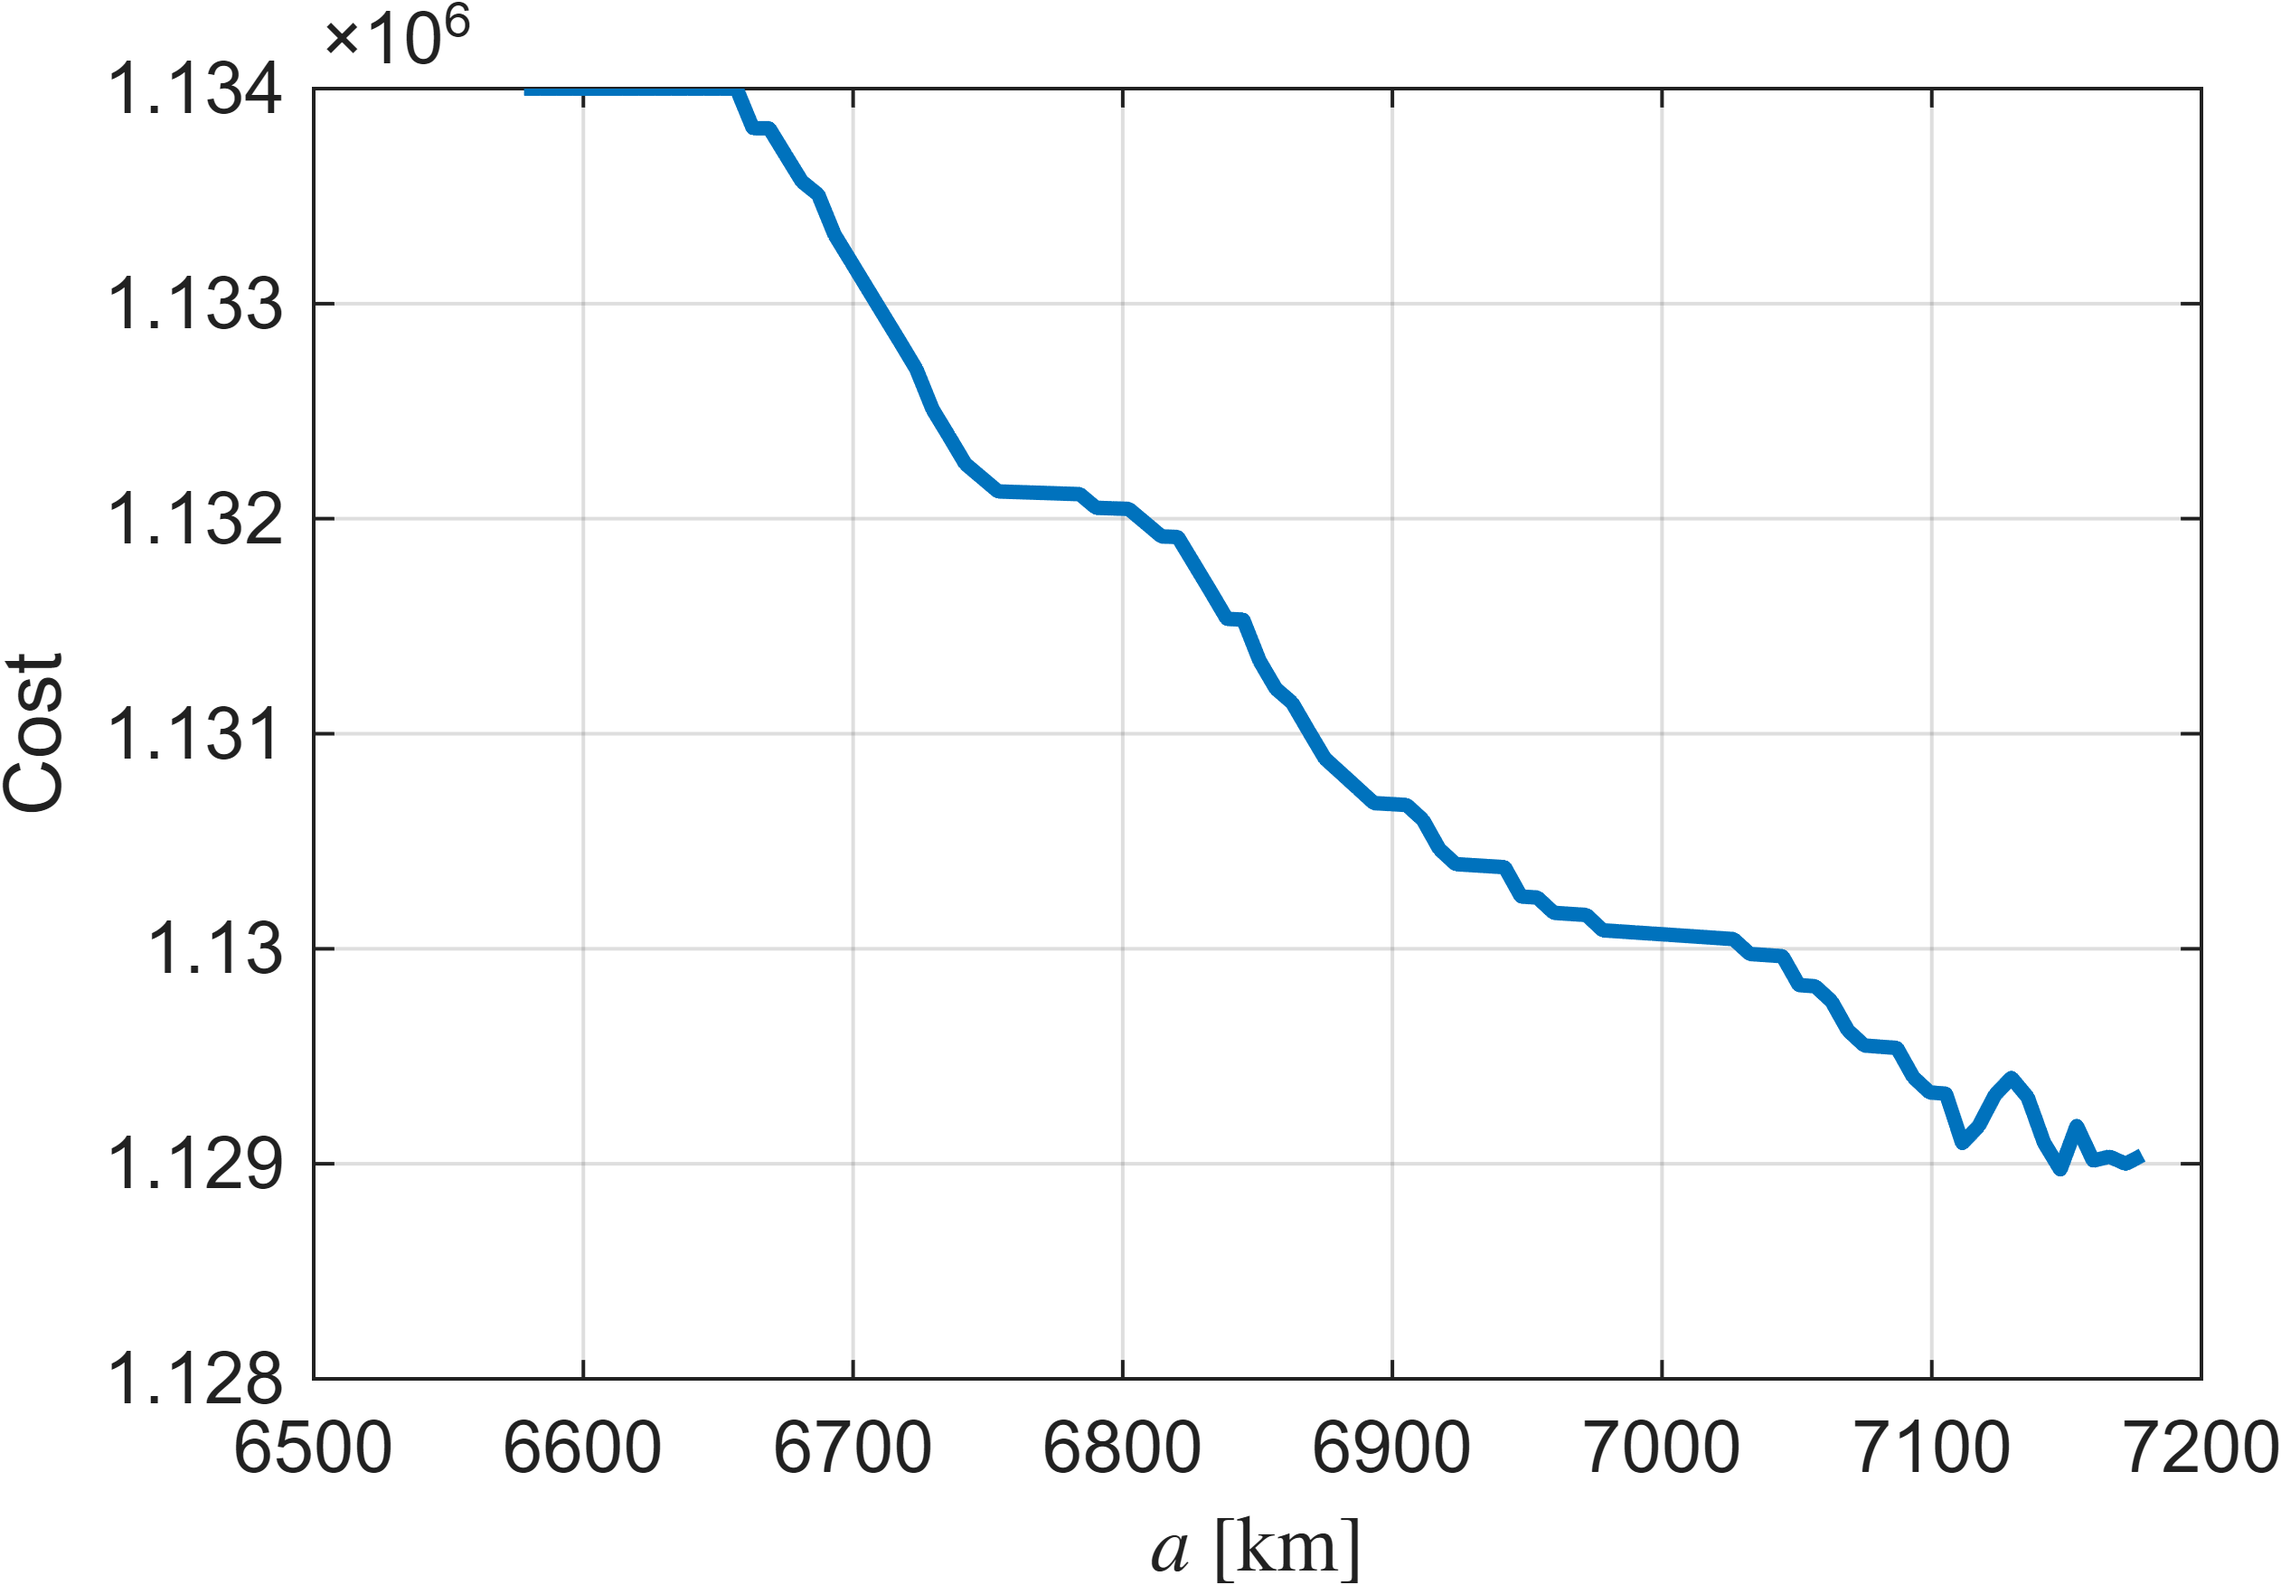
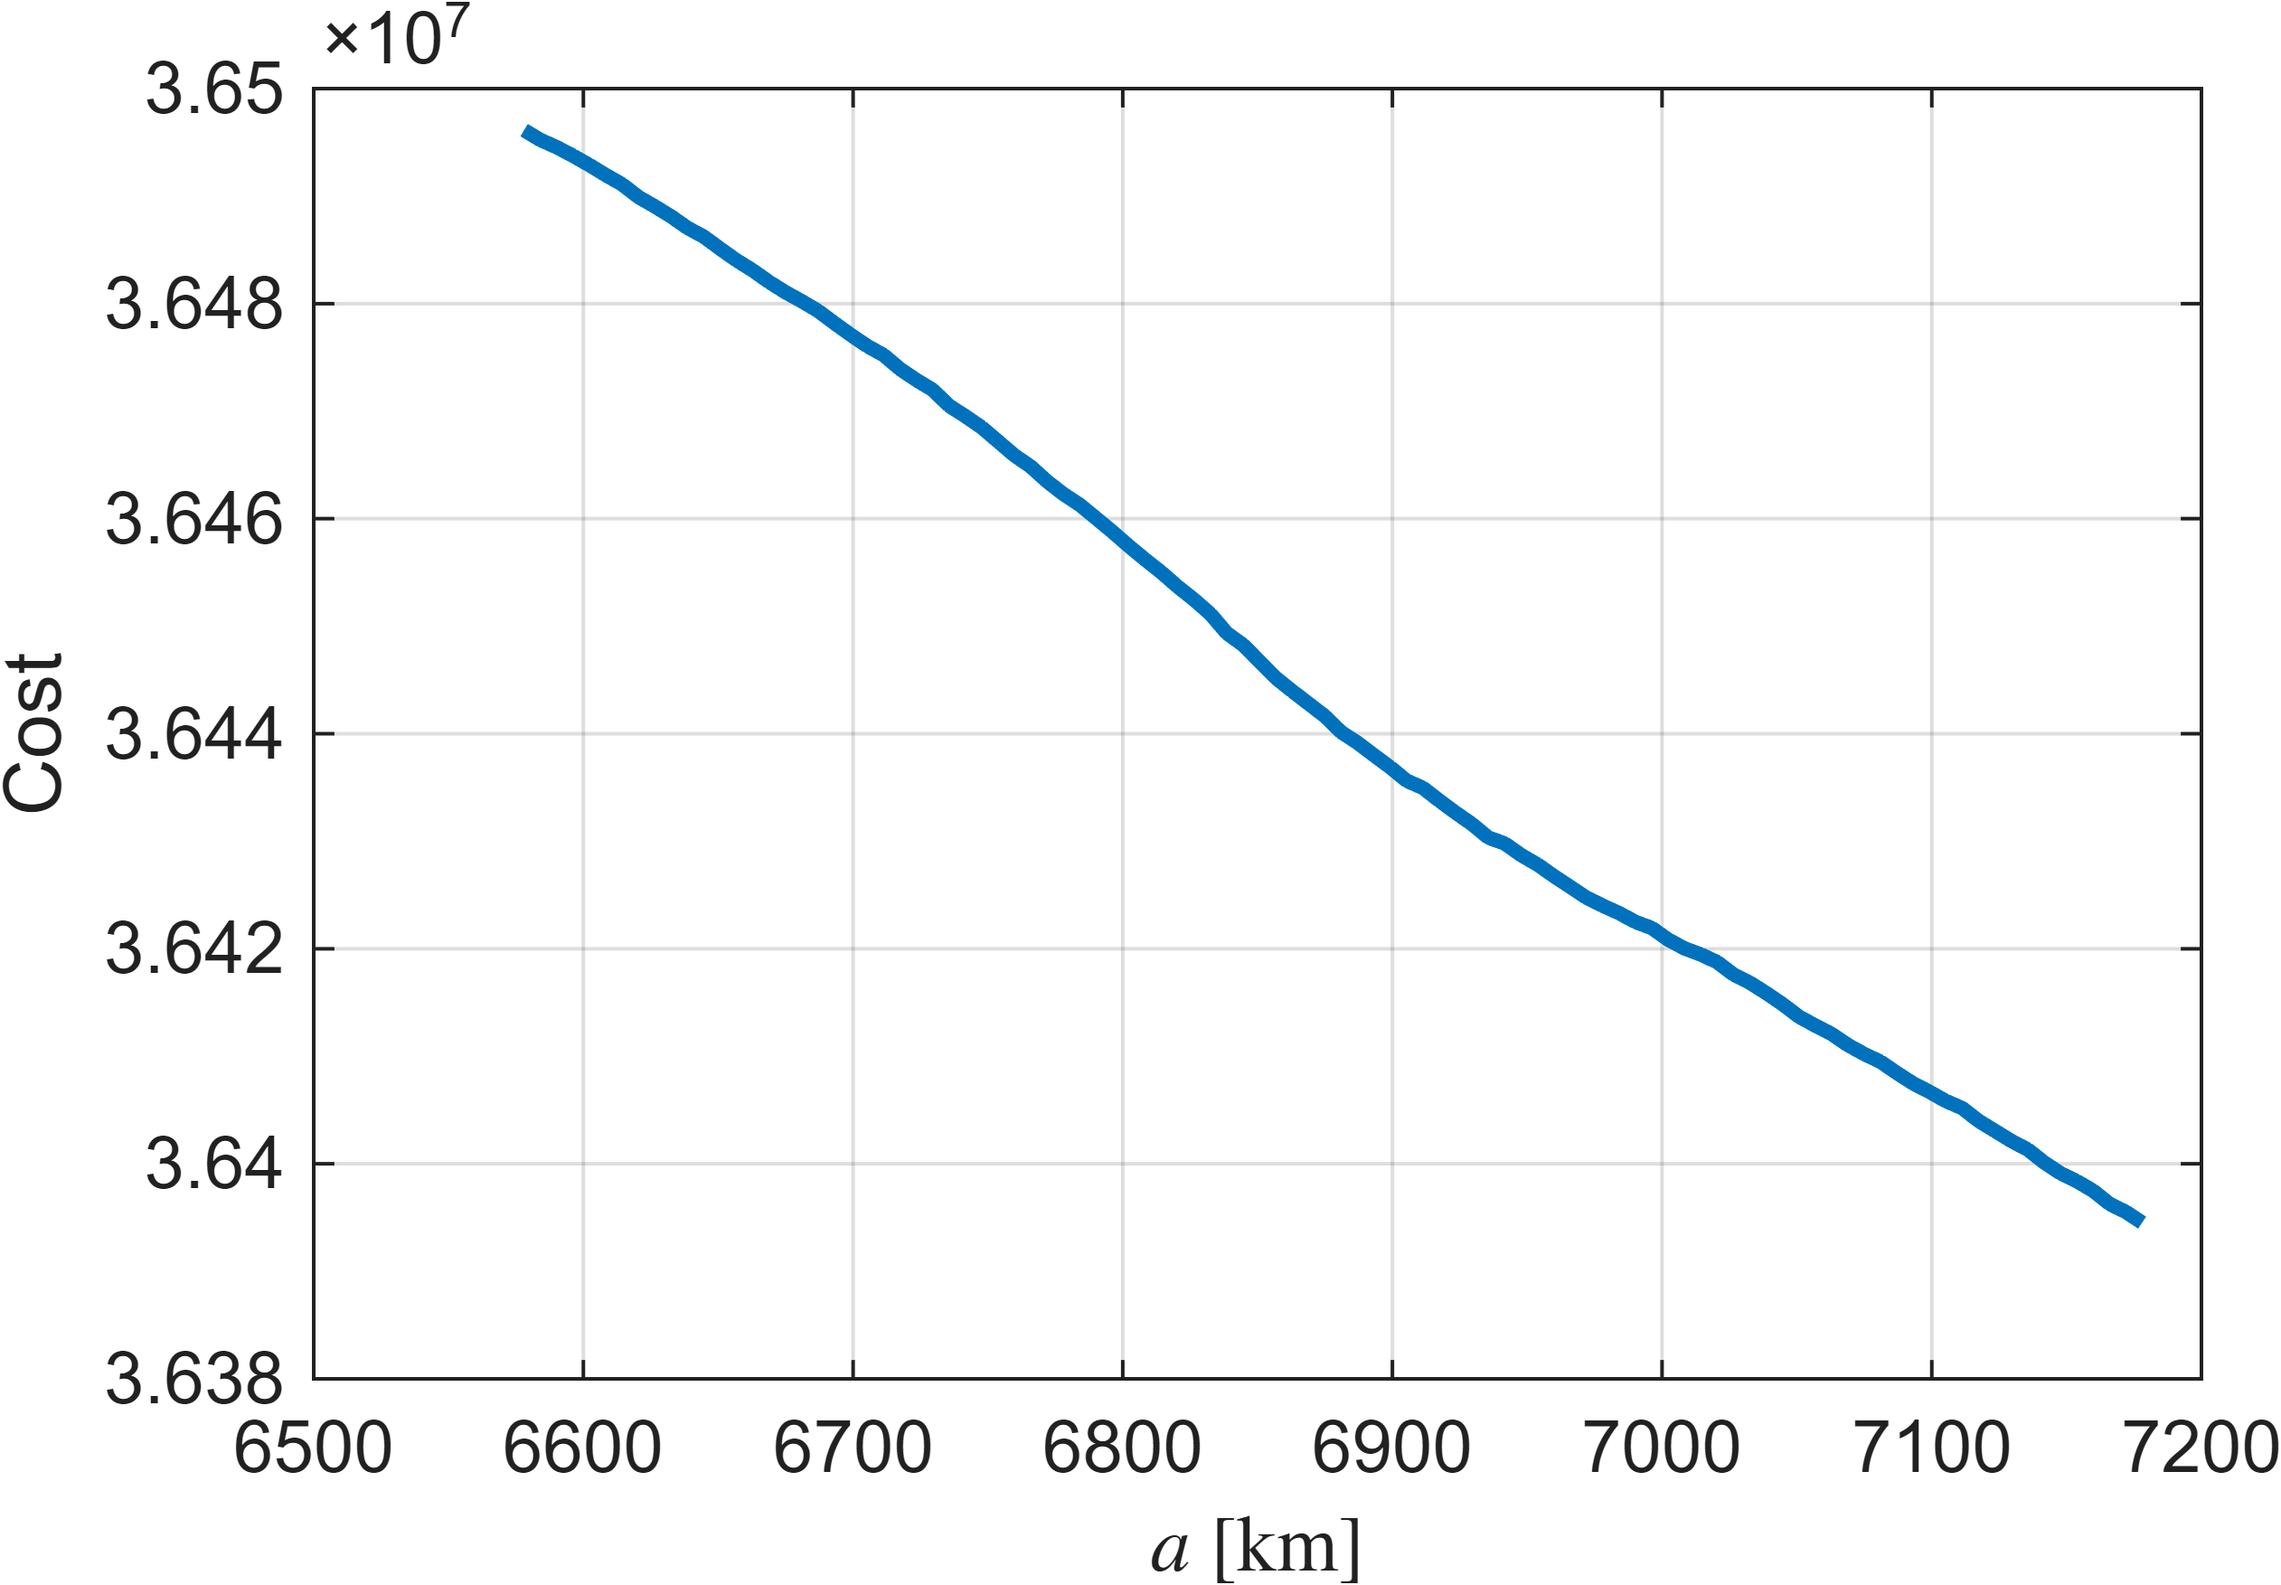
optm and change config

diff --git a/main.m b/main.m
@@ -20,7 +20,7 @@ ub = repmat([7178e3, 0.025, deg2rad(180 - 46), deg2rad(360), deg2rad(360), deg2r
 f = constellation_obj_fun(settings);
 
 % Consider a random initial solution
-y0 = [6860e3, 0.00054, deg2rad(97.5643), deg2rad(182.719), deg2rad(275.0914), deg2rad(85.03242)]';
+y0 = [6760e3, 0.00154, deg2rad(97.5643), deg2rad(182.719), deg2rad(275.0914), deg2rad(85.03242)]';
 
 tic
 initial_cost = f(repmat(y0, settings.num_sats, 1));
@@ -30,10 +30,10 @@ fprintf('Initial cost: \t\t%d\n', initial_cost)
 fprintf('Computation time: \t%.2f s\n', dt)
 
 %%%%%%%%%%%%%%%%%%%%%%%%%%%%%%%%%%%%%%%%%%%%%%%%%%%%%%%%%%
-% BOUNDEDNESS %%%%%%%%%%%%%%%%%%%%%%%%%%%%%%%%%%%%%%%%%%%%
+% INITIAL ANALYSIS %%%%%%%%%%%%%%%%%%%%%%%%%%%%%%%%%%%%%%%
 %%%%%%%%%%%%%%%%%%%%%%%%%%%%%%%%%%%%%%%%%%%%%%%%%%%%%%%%%%
 
-fprintf('================== BOUNDEDNESS ===================\n')
+fprintf('================ INITIAL ANALYSIS ================\n')
 
 % Temporarily consider only one satellite
 original_sats = settings.num_sats;
@@ -71,9 +71,16 @@ for i = 1:length(y0)
     savefig(sprintf('boundedness_%d.png', i), [3 2]),
 end
 
-% Set back the number of satellites
-settings.num_sats = original_sats;
+fprintf('Boundedness plots saved.\n')
 
 %%%%%%%%%%%%%%%%%%%%%%%%%%%%%%%%%%%%%%%%%%%%%%%%%%%%%%%%%%
-% OPTIMIZATION %%%%%%%%%%%%%%%%%%%%%%%%%%%%%%%%%%%%%%%%%%%
+% SIMPLIFIED PROBLEM %%%%%%%%%%%%%%%%%%%%%%%%%%%%%%%%%%%%%
 %%%%%%%%%%%%%%%%%%%%%%%%%%%%%%%%%%%%%%%%%%%%%%%%%%%%%%%%%%
+
+% Create a simplified optimization problem, where just the inclination and RAAN are optimized, while the other variables are fixed to their initial values
+fprintf('=============== SIMPLIFIED PROBLEM ===============\n')
+
+f_simplified = @(x) f([y0(1:2); x(1); y0(4); x(2); y0(6)]);
+
+% Set back the number of satellites
+settings.num_sats = original_sats;

diff --git a/lib/model/constellation_obj_fun.m b/lib/model/constellation_obj_fun.m
@@ -19,13 +19,22 @@ function f = constellation_obj_fun(settings)
             sat_state = sat_states(:, idx);
             sat_pos_eci = sat_state(1:3);
             sat_pos_ecef = eci2ecef(sat_pos_eci, t);
+            sat_pos_geo = ecef2geo(sat_pos_ecef);
 
-            sat_points_covered = zeros(numel(settings.points), 1);
+            max_distance = max_distance_to_sat(sat_pos_geo, settings.min_elevation);
 
-            for p = 1:size(settings.points, 2)
-                point_ecef = settings.points(:, p);
-                sat_points_covered(p) = point_is_visible(sat_pos_ecef, point_ecef, settings.min_elevation);
-            end
+            indices = rangesearch(settings.points', sat_pos_ecef', max_distance);
+            indices = cell2mat(indices);
+            % convert indices to logical array
+            sat_points_covered = false(numel(settings.points), 1);
+            sat_points_covered(indices) = true;
+
+            % sat_points_covered = zeros(numel(settings.points), 1);
+
+            % for p = 1:size(settings.points, 2)
+            %     point_ecef = settings.points(:, p);
+            %     sat_points_covered(p) = point_is_visible(sat_pos_ecef, point_ecef, settings.min_elevation);
+            % end
 
             points_covered = sat_points_covered | points_covered;
         end

diff --git a/config.m b/config.m
@@ -7,7 +7,7 @@ function settings = config()
     fprintf('================== TIME SETTINGS =================\n')
 
     ti_jd = 2461123.18064; % Initial time in Julian Date
-    simulation_time = 7 * 3600; % Simulation time [s]
+    simulation_time = 10 * 3600; % Simulation time [s]
 
     settings.ti = jd2unix(ti_jd); % Initial time [s]
     settings.tf = settings.ti + simulation_time; % Final time [s]
@@ -40,8 +40,8 @@ function settings = config()
 
     fprintf('================= WORLD SETTINGS =================\n')
 
-    settings.target = "Switzerland"; % Country to be covered by the constellation.
-    settings.sample_points = 2e5; % Number of sample points to generate on Earth.
+    settings.target = "Ukraine"; % Country to be covered by the constellation.
+    settings.sample_points = 3e5; % Number of sample points to generate on Earth.
 
     % Extract country geometry from shapefile
     countries = readgeotable("./data/ne_50m_admin_0_countries/ne_50m_admin_0_countries.shp");

diff --git a/scripts/orbit.m b/scripts/orbit.m
@@ -6,9 +6,9 @@ clc; clear; close all;
 % Import necessary libraries
 addpath(genpath('../lib'))
 
-% initial_state = kep2eci([6860e3, 0.00054, deg2rad(97.5643), deg2rad(182.719), deg2rad(275.0914), deg2rad(85.03242)]', constants.Earth.mu);
-initial_state = kep2eci([7126513.44232183, 0.000277379314357706, 0.888570586940683, 0.422335229587534, ...
-                             2.43199323527529, 3.39754329659587]', constants.Earth.mu);
+initial_state = kep2eci([6760e3, 0.00154, deg2rad(97.5643), deg2rad(182.719), deg2rad(275.0914), deg2rad(85.03242)]', constants.Earth.mu);
+% initial_state = kep2eci([7126513.44232183, 0.000277379314357706, 0.888570586940683, 0.422335229587534, ...
+%                              2.43199323527529, 3.39754329659587]', constants.Earth.mu);
 
 ti_jd = 2461123.18064; % Initial time in Julian Date
 simulation_time = 7 * 3600; % Simulation time [s]

diff --git a/lib/model/max_distance_to_sat.m b/lib/model/max_distance_to_sat.m
@@ -1,0 +1,14 @@
+function d = max_distance_to_sat(r_sat_geo, min_elevation)
+    % max_distance_to_sat: calculates the maximum distance from a satellite to a point on Earth, given the satellite's geodetic coordinates and the minimum elevation angle.
+    %
+    %  Inputs:
+    %   - r_sat_geo: a 3x1 vector containing the satellite's geodetic coordinates [latitude; longitude; altitude]
+    %   - min_elevation: the minimum elevation angle for coverage [rad]
+    %
+    %  Output:
+    %   - d: the maximum distance from the satellite to a point on Earth that is still covered by the satellite, given the minimum elevation angle
+
+    r = geodetic_radius(r_sat_geo(1:2));
+    h = r_sat_geo(3) - r;
+    d = sqrt(r ^ 2 + (r + h) ^ 2 - 2 * r * (r + h) * sin(min_elevation + asin(r / (r + h) * cos(min_elevation))));
+end
